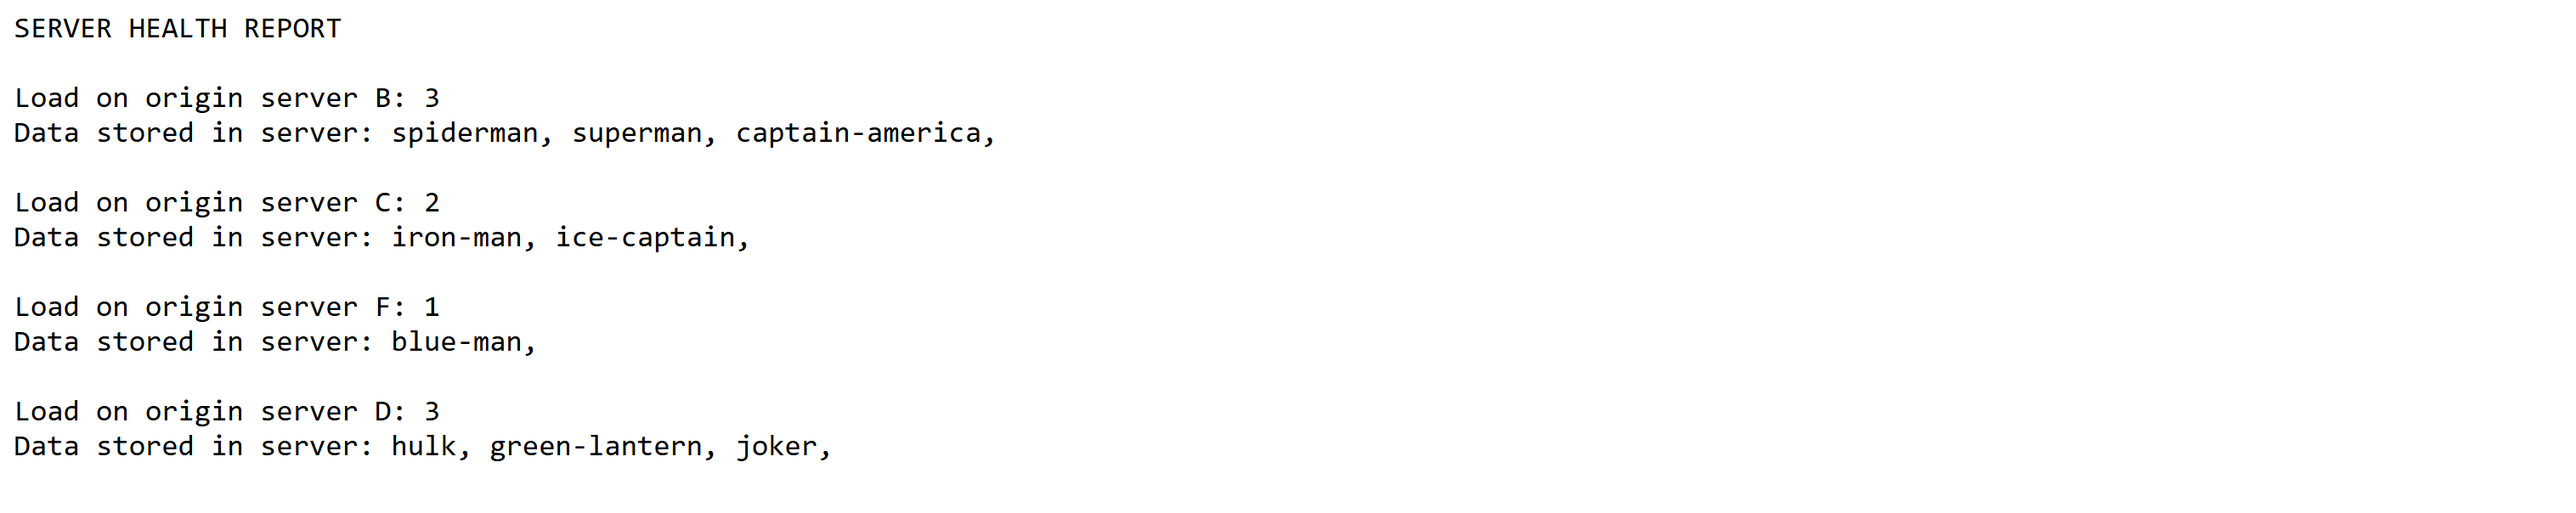
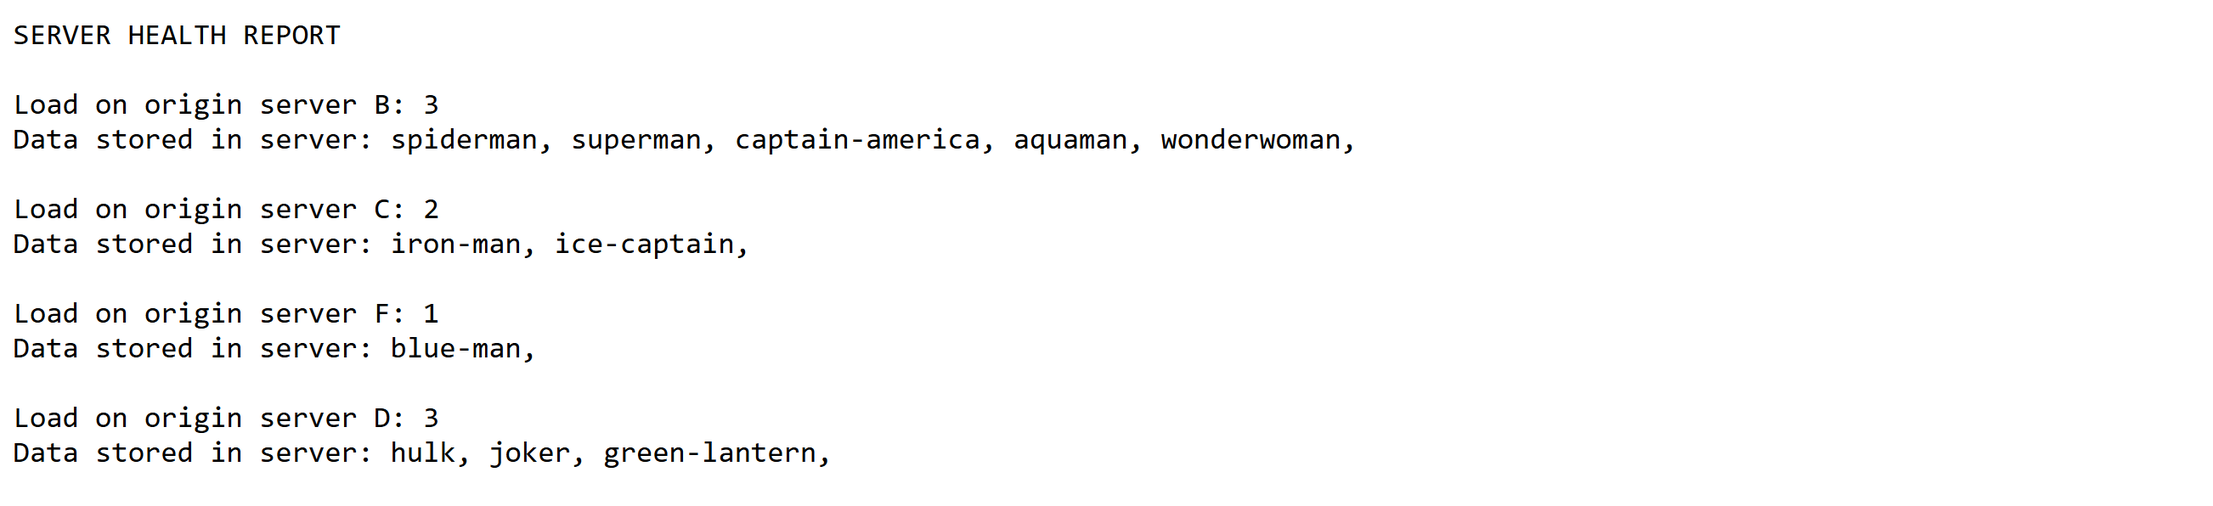
data migrate

diff --git a/20A-load-balancer-consistenthash/router.go b/20A-load-balancer-consistenthash/router.go
@@ -122,14 +122,21 @@ func (router *Router) removeServerHandler(w http.ResponseWriter, r *http.Request
 	idx := sort.Search(len(router.config.backendServers), func(i int) bool {
 		return router.config.backendServers[i].pos >= pos
 	})
+	oldServer :=  router.config.backendServers[idx]
 
-	if idx < len(router.config.backendServers) && router.config.backendServers[idx].pos == pos {
-		// remove the server by excluding it from the list
-		router.config.backendServers = append(router.config.backendServers[:idx], router.config.backendServers[idx+1:]...)
-		fmt.Printf("Removed server %s at position %d\n", name, pos)
-	} else {
-		fmt.Printf("Server %s not found in the hash ring\n", name)
-	}
+	// migrate data from the server to the next server
+	nextIdx := (idx + 1) % len(router.config.backendServers)
+	nextServer := router.config.backendServers[nextIdx]
+	nextServer.data = append(nextServer.data, oldServer.data...)
+
+	oldServer.data = nil// clear data of the current idx
+
+	fmt.Printf("Migrating data from %s server to %s server\n", oldServer.name, nextServer.name)
+
+	// remove the server by excluding it from the list
+	router.config.backendServers = append(router.config.backendServers[:idx], router.config.backendServers[idx+1:]...)
+	fmt.Printf("Removed server %s at position %d\n", name, pos)
+
 
 	http.Redirect(w, r, "/health", http.StatusSeeOther)
 }

diff --git a/20A-load-balancer-consistenthash/README.md b/20A-load-balancer-consistenthash/README.md
@@ -23,10 +23,10 @@ Form to enter data
 Health Server `:8080/health`
 ![alt text](../images/lb-health.png)
 
-Adding New Server F, and sending data
+Adding New Server `F`, and sending data
 ![alt text](../images/LB-health-add.png)
 
-Remove Server A
+Remove Server `A`, and migrate data
 ![alt text](../images/LB-health-remove.png)
 
 Logs
